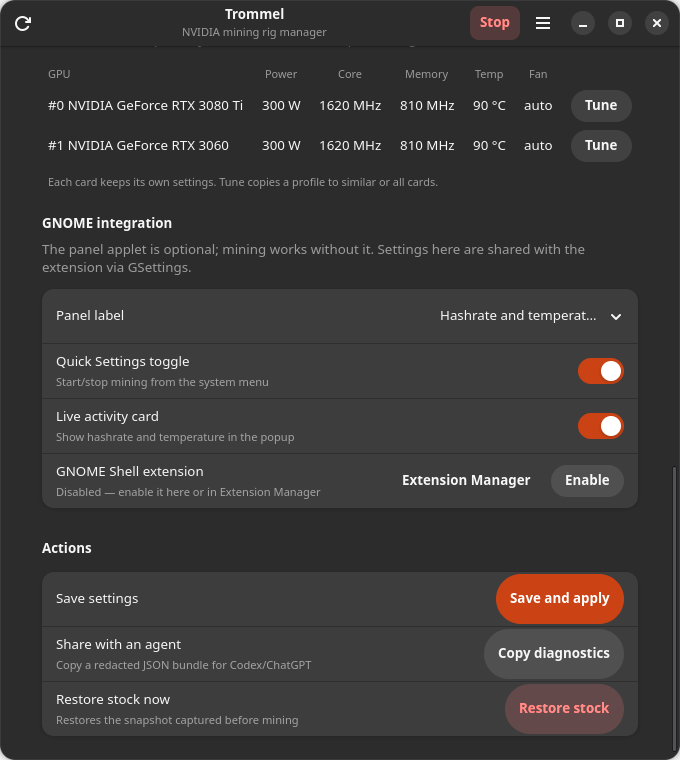
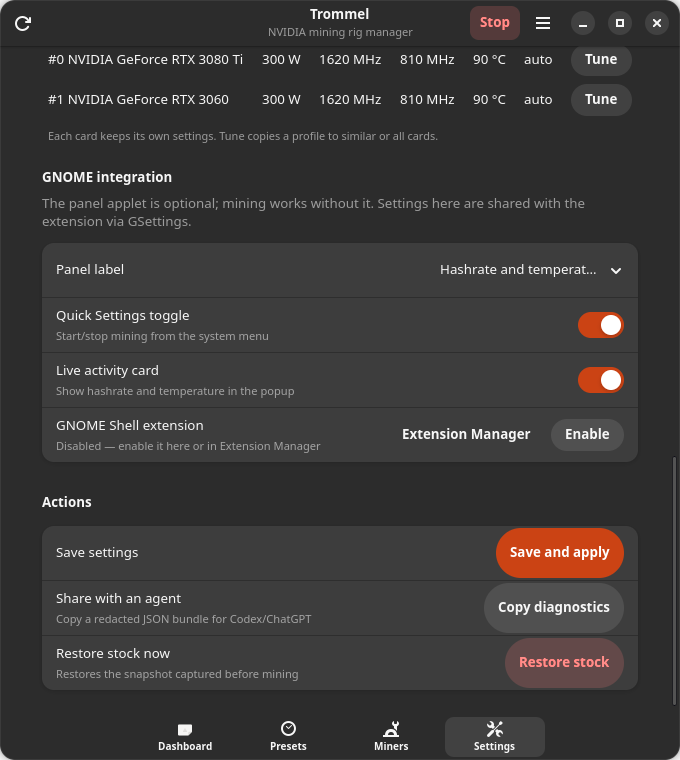
fix(ui): keep one navigation switcher at every window size
AdwViewSwitcherTitle's title-visible binding duplicated the switcher (header
and bottom bar) at some widths and left a narrow window without any navigation
when inverted. AdwBreakpoint setters on the window did not apply on the first
allocation either.

Use a single bottom AdwViewSwitcherBar, always revealed, and keep the app title
in the header. The dashboard flow box already wraps GPU cards into up to three
columns inside its 900 px clamp, so no window breakpoints are needed.

diff --git a/crates/cli/src/gui.rs b/crates/cli/src/gui.rs
@@ -11,7 +11,6 @@ use std::sync::Arc;
 use std::time::Duration;
 
 use adw::prelude::*;
-use glib::value::ToValue;
 use gtk::{gdk, gio, glib};
 
 use trommel_core::catalog::{self, MinerOption, OptionKind};
@@ -422,20 +421,15 @@ fn build_ui(app: &adw::Application) {
     stack.set_transition_duration(220);
     toast.set_child(Some(&stack));
 
-    let title = adw::ViewSwitcherTitle::builder()
-        .stack(&stack)
-        .title("Trommel")
-        .subtitle(tr("NVIDIA mining rig manager", "Менеджер NVIDIA-рига"))
-        .build();
+    let title = adw::WindowTitle::new(
+        "Trommel",
+        &tr("NVIDIA mining rig manager", "Менеджер NVIDIA-рига"),
+    );
+    // One navigation surface, always available: the bottom switcher bar. The
+    // header keeps the window title, so the switcher can never be duplicated
+    // at the top and disappear at the bottom on narrow windows.
     let switcher_bar = adw::ViewSwitcherBar::builder().stack(&stack).build();
-    {
-        // The bottom bar is the narrow-window replacement for the header
-        // switcher, so it must be visible exactly when the title is not.
-        let switcher_bar = switcher_bar.clone();
-        title.connect_notify_local(Some("title-visible"), move |title, _| {
-            switcher_bar.set_reveal(!title.is_title_visible());
-        });
-    }
+    switcher_bar.set_reveal(true);
 
     let header = adw::HeaderBar::new();
     header.set_title_widget(Some(&title));
@@ -539,7 +533,7 @@ fn build_ui(app: &adw::Application) {
         .build();
     let gpu_flow = gtk::FlowBox::new();
     gpu_flow.set_selection_mode(gtk::SelectionMode::None);
-    gpu_flow.set_max_children_per_line(2);
+    gpu_flow.set_max_children_per_line(3);
     gpu_flow.set_min_children_per_line(1);
     gpu_flow.set_homogeneous(true);
     gpu_flow.set_column_spacing(10);
@@ -547,22 +541,6 @@ fn build_ui(app: &adw::Application) {
     gpu_flow.set_margin_top(6);
     gpu_flow.set_margin_bottom(6);
     rig_group.add(&gpu_flow);
-    {
-        let narrow = adw::Breakpoint::new(adw::BreakpointCondition::new_length(
-            adw::BreakpointConditionLengthType::MaxWidth,
-            560.0,
-            adw::LengthUnit::Px,
-        ));
-        narrow.add_setter(&gpu_flow, "max-children-per-line", Some(&1u32.to_value()));
-        window.add_breakpoint(narrow);
-        let wide = adw::Breakpoint::new(adw::BreakpointCondition::new_length(
-            adw::BreakpointConditionLengthType::MinWidth,
-            780.0,
-            adw::LengthUnit::Px,
-        ));
-        wide.add_setter(&gpu_flow, "max-children-per-line", Some(&3u32.to_value()));
-        window.add_breakpoint(wide);
-    }
     dashboard_box.append(&rig_group);
 
     let totals_group = adw::PreferencesGroup::builder()

diff --git a/docs/ux.ru.md b/docs/ux.ru.md
@@ -23,11 +23,12 @@
 
 ## Адаптивная компоновка
 
-Окно открывается в 680×760 с минимумом 380 px. Выше порога переключатель
-страниц находится в заголовке; ниже заголовок скрывается и появляется нижняя
-панель `AdwViewSwitcherBar`. Карточки GPU используют условия `AdwBreakpoint`
-для одной–трёх колонок. У диалогов своя прокрутка и размер, помещающийся на
-небольших экранах. Переключение страниц анимировано через `AdwViewStack`.
+Окно открывается в 680×760 с минимумом 380 px. Навигация — одна нижняя панель
+`AdwViewSwitcherBar`; в заголовке остаётся имя приложения, поэтому переключатель
+не дублируется сверху и не пропадает на узком окне. Карточки GPU переносятся
+внутри дашборда с clamp 900 px (одна–три колонки); у диалогов своя прокрутка и
+размер, помещающийся на небольших экранах. Переключение страниц анимировано
+через `AdwViewStack`.
 
 ## Правила навигации
 

diff --git a/docs/ux.md b/docs/ux.md
@@ -23,11 +23,12 @@ when a screen is added, removed or moved.
 
 ## Responsive layout
 
-The window opens at 680×760 with a 380 px minimum. Above the breakpoint the
-navigation switcher sits in the header; below it the header title is hidden and
-the bottom `AdwViewSwitcherBar` appears. GPU cards use `AdwBreakpoint`
-conditions for one to three columns. Dialogs have their own scroll area and a
-size that fits small screens. Page changes animate through `AdwViewStack`.
+The window opens at 680×760 with a 380 px minimum. Navigation lives in a single
+`AdwViewSwitcherBar` at the bottom: the header keeps the app title, so the
+switcher is never duplicated at the top and never disappears on a narrow
+window. GPU cards wrap through the dashboard's 900 px clamp (one to three
+columns); dialogs have their own scroll area and a size that fits small
+screens. Page changes animate through `AdwViewStack`.
 
 ## Navigation rules
 

diff --git a/CHANGELOG.md b/CHANGELOG.md
@@ -19,10 +19,10 @@ Changelog; versions use SemVer.
   accepted/rejected shares, pool balance, install state and warnings. Rounded
   16 px GPU cards and a hero card for the hashrate.
 - UX map in `docs/ux.md` / `docs/ux.ru.md` describing every window and rule.
-- Adaptive layout: the window opens at 680×760 and can shrink to 380 px; the
-  header view switcher is replaced by the bottom bar on narrow windows, GPU
-  cards ask for one to three columns through AdwBreakpoint, and page switches
-  animate.
+- Adaptive layout: the window opens at 680×760 and can shrink to 380 px,
+  navigation is a single bottom bar (never duplicated in the header and never
+  missing on narrow windows), GPU cards wrap into up to three columns, and page
+  switches animate.
 
 ### Changed
 
